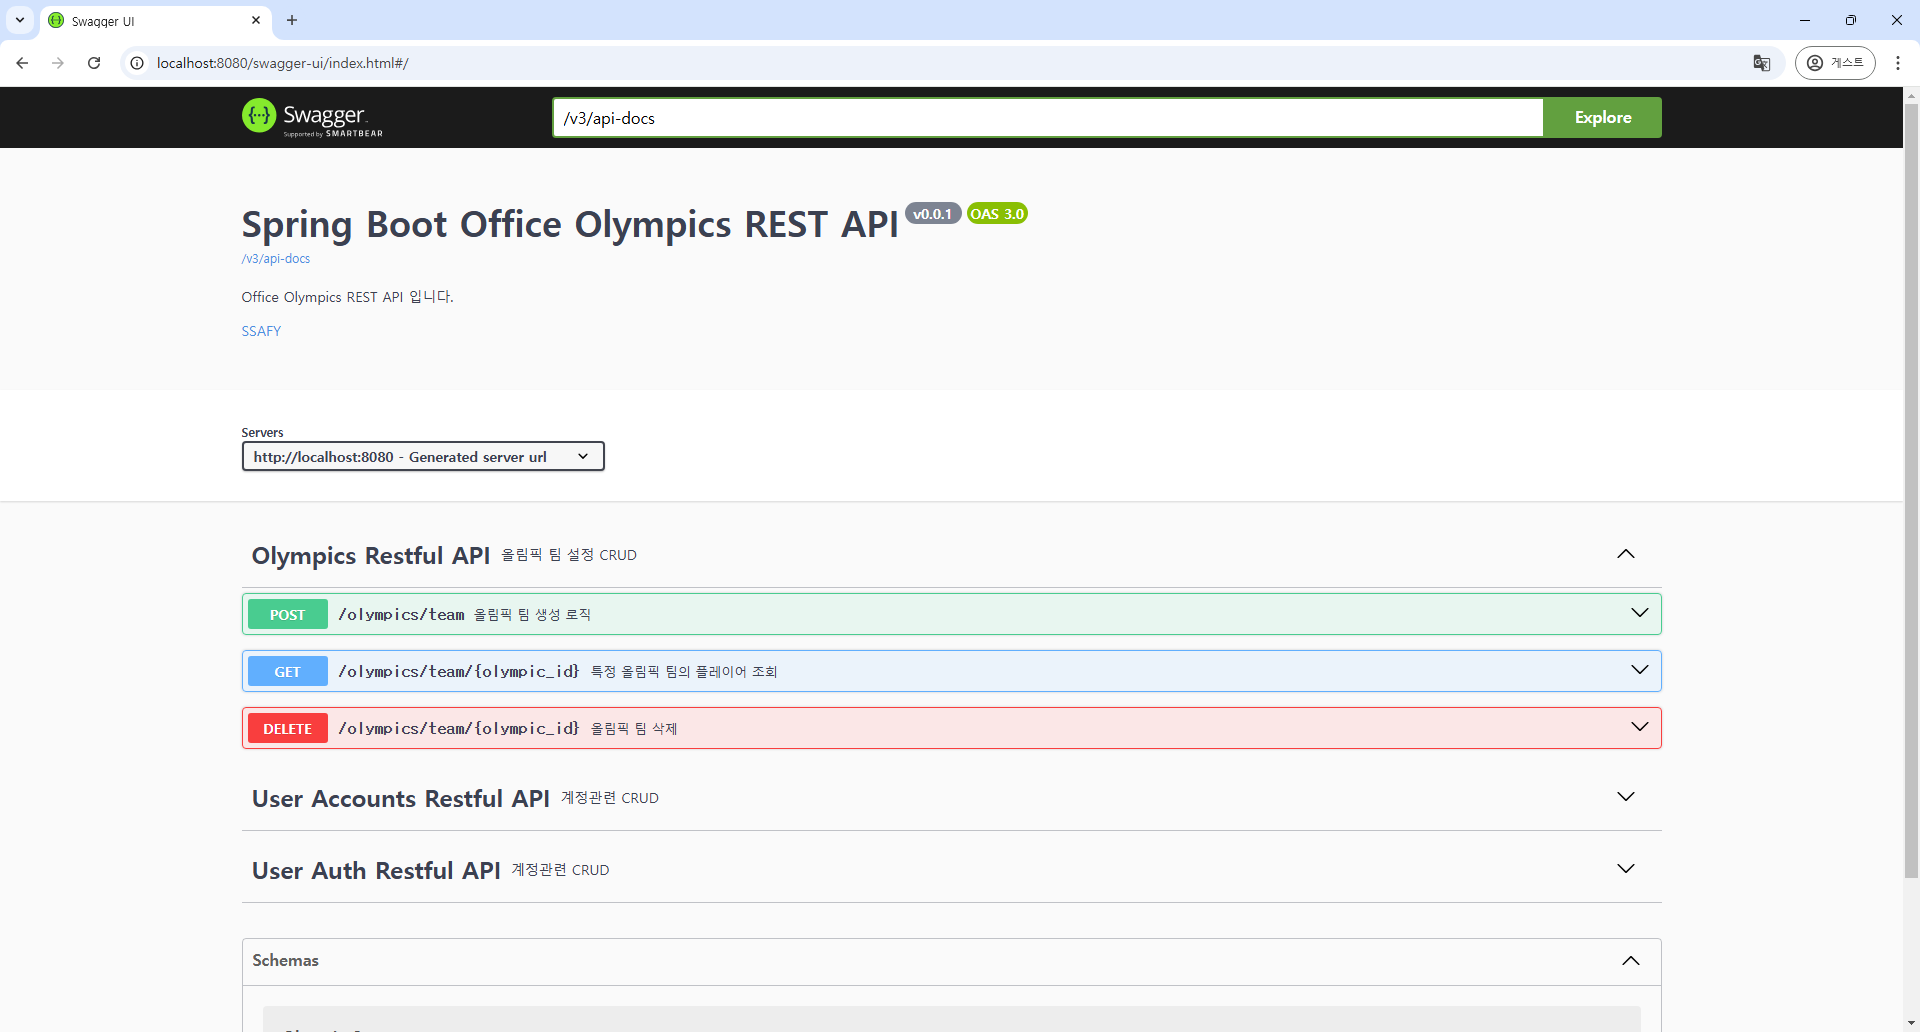
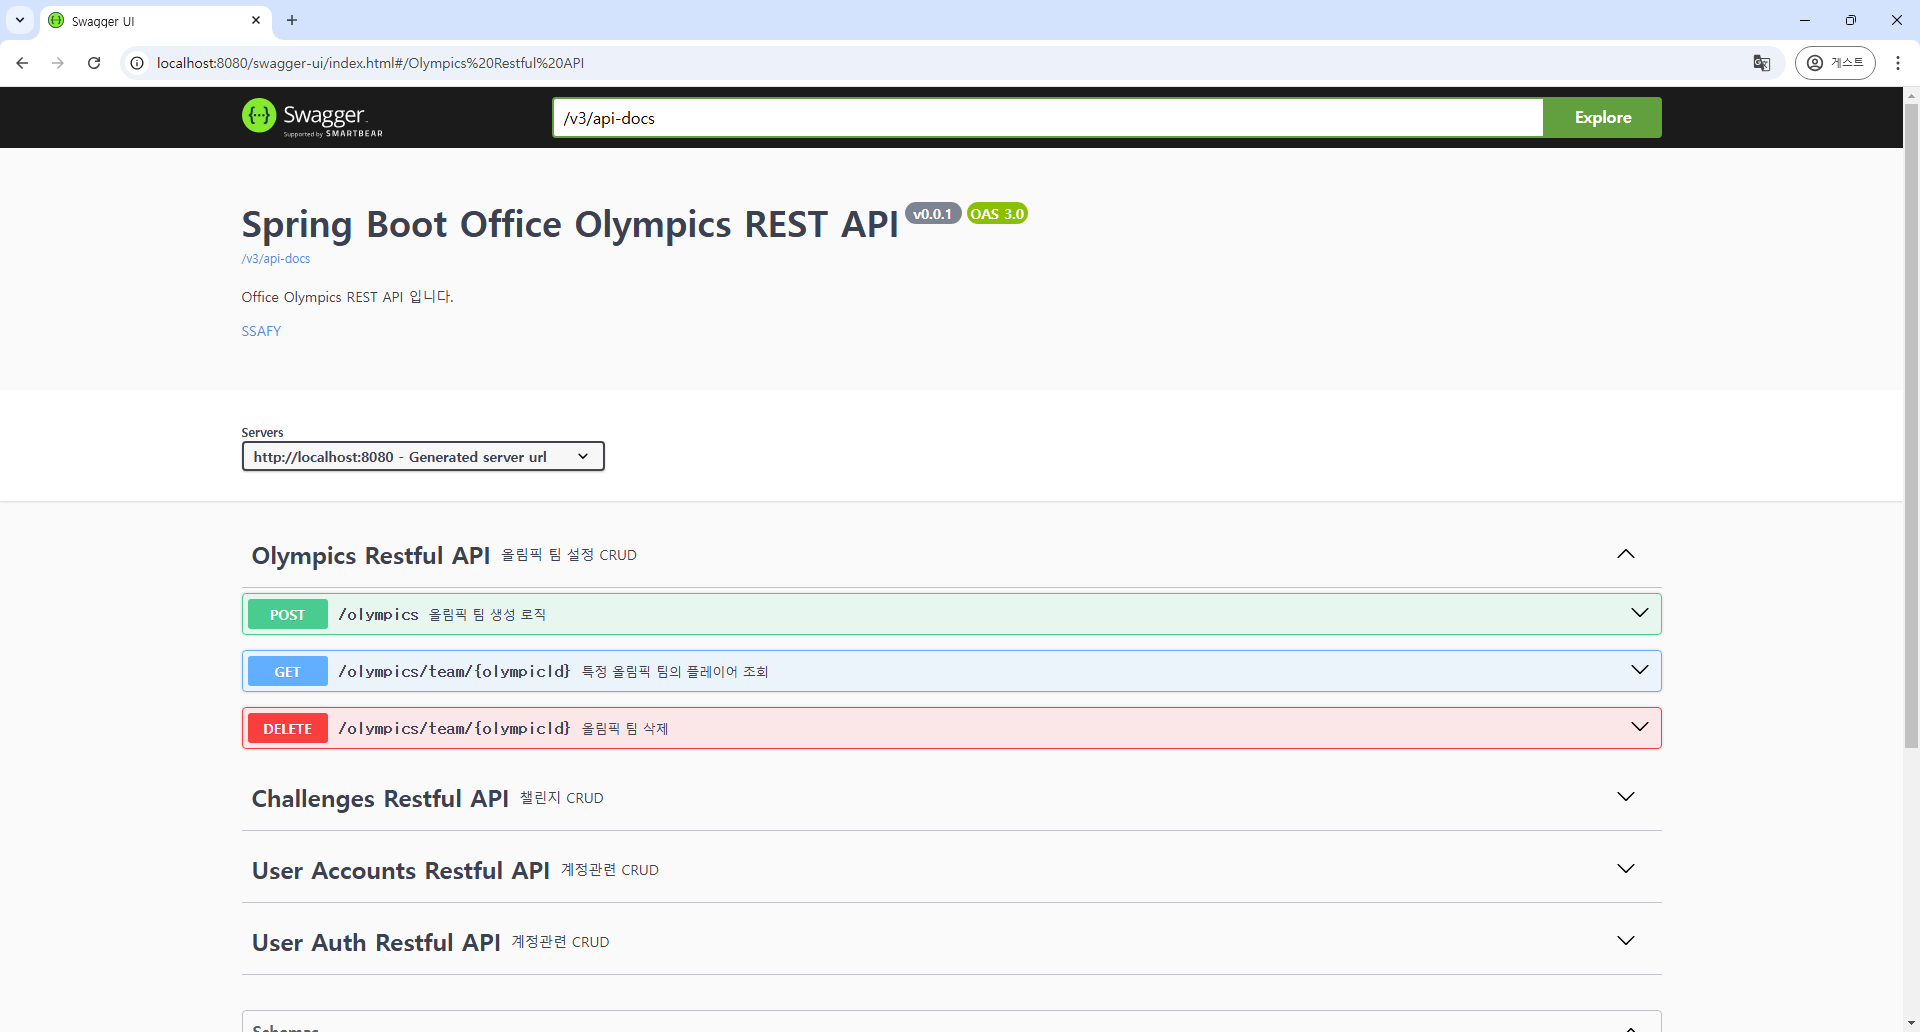
docs: 챌린지 기능 리뷰 문서 작성 및 이미지 갱신
챌린지 구현 완료된 기능에 대한 리뷰 문서 challenge.md를 작성했습니다.

- 올림픽 관련 이미지를 갱신하여 최신 상태로 업데이트 (be_olympics.png)

diff --git a/backend_summaries/Challenges.md b/backend_summaries/Challenges.md
@@ -1,0 +1,81 @@
+# Challenges 관련 로직 구현 리뷰
+
+## 목차
+- [주요 코드 구조 및 로직](#주요-코드-구조-및-로직)
+- [작업 내역](#작업-내역)
+- [각 파일의 내용](#각-파일의-내용)
+
+## 주요 코드 구조 및 로직
+
+### Swagger API 이미지
+
+![be_challenges.png](../media/backend/be_challenges.png)
+
+- **챌린지 관리**: `ChallengeController`와 `ChallengeScoreService`를 통해 챌린지의 생성, 조회, 기록 제출, 리더보드 조회 기능이 구현되어 있습니다.
+- **데이터베이스 연동**: `ChallengeScoreDao`와 `ChallengeScoreMapper.xml`을 이용해 MyBatis로 데이터베이스와 연동하여 챌린지와 관련된 데이터 조작을 수행합니다.
+
+## 작업 내역
+
+- `ChallengeController.java`
+- `ChallengeScoreDao.java`
+- `ChallengeScoreMapper.xml`
+- `Challenge.java`, `Score.java`, `Rank.java` (DTO)
+- `ChallengeScoreService.java`
+- `ChallengeScoreServiceImpl.java`
+
+## 각 파일의 내용
+
+- controller   
+    `ChallengeController`는 챌린지의 세부 정보 조회, 기록 제출, 리더보드 조회 등 주요 기능을 처리합니다.
+
+    - **챌린지 세부 정보 조회 (GET /challenges/{challengeId})**  
+        특정 `challengeId`를 가진 챌린지의 세부 정보를 반환합니다. 챌린지가 없을 경우 204 상태 코드를 반환합니다.
+
+    - **기록 제출 (POST /challenges/{challengeId}/record)**  
+        특정 챌린지에 점수를 제출하는 엔드포인트입니다. 플레이어 이름과 점수를 JSON 형식으로 전달하며, 성공 시 DB에 총 점수를 갱신합니다.
+
+    - **챌린지 리더보드 조회 (GET /challenges/{challengeId}/rank)**  
+        특정 챌린지의 현재 리더보드를 반환합니다. 상위 3명의 플레이어를 등수와 함께 조회할 수 있습니다.
+
+    - **최종 리더보드 조회 (GET /challenges/{challengeId}/final-rank)**  
+        올림픽이 종료되었을 때 해당 챌린지의 최종 리더보드를 조회하여 반환합니다.
+
+- service   
+    `ChallengeScoreServiceImpl` 파일에서는 챌린지 조회, 점수 기록, 점수 업데이트 및 리더보드 조회 로직이 구현되어 있습니다.
+
+    - **챌린지 조회 로직**  
+        - `selectChallenge` 메서드를 통해 `challengeId`를 기반으로 챌린지 정보를 조회합니다.
+
+    - **기록 제출 로직**  
+        - `insertScores` 메서드를 통해 플레이어 이름을 ID로 변환 후 점수를 데이터베이스에 기록합니다.
+
+    - **점수 갱신 로직**  
+        - `updateScore` 메서드를 통해 각 플레이어의 총 점수를 갱신합니다.
+
+    - **리더보드 조회 로직**  
+        - `selectChallengeScore`와 `selectFinalScore` 메서드를 통해 챌린지의 현재 및 최종 리더보드를 조회하여 반환합니다.
+
+- dao   
+    `ChallengeScoreDao`는 챌린지와 관련된 데이터베이스 연산을 정의하는 인터페이스입니다. 
+
+    - **주요 메서드**:
+        - `selectChallenge`: `challengeId`로 특정 챌린지를 조회
+        - `nameToId`: 플레이어 이름 리스트를 받아 해당 이름에 맞는 `playerId` 리스트를 반환
+        - `insertScore`: 챌린지 점수 데이터를 받아 다수의 레코드를 삽입
+        - `updateScore`: 각 플레이어의 `total_score`를 갱신
+        - `getPlayersByOlympicsId(int olympics_id)`: 특정 팀의 선수 목록 조회
+        - `selectChallengeScore`, `selectFinalScore`, `selectMainScore`: 챌린지 리더보드를 조회하여 순위를 반환
+
+- mapper   
+    `ChallengeScoreMapper.xml` 파일은 MyBatis SQL 매핑 파일로, 챌린지 데이터 조회, 점수 기록, 점수 업데이트, 리더보드 조회 쿼리들이 포함됩니다.
+
+    - **챌린지 조회 쿼리**: `selectChallenge`는 `challengeId`로 챌린지를 조회합니다.
+    - **이름->ID 변환 쿼리**: `nameToId`는 이름을 `playerId`로 변환해 리스트로 반환합니다.
+    - **기록 제출 쿼리**: `insertScore`는 챌린지 점수를 여러 개 삽입합니다.
+    - **점수 갱신 쿼리**: `updateScore`는 각 플레이어의 `total_score`를 갱신합니다.
+    - **리더보드 조회 쿼리**: `selectChallengeScore`, `selectFinalScore`, `selectMainScore`는 각 상황에 맞는 순위를 반환합니다.
+
+- dto   
+    - **Challenge.java**: `challengeId`, `challengeName`, `challengeDesc`, `challengeUrl`, `regDate`를 포함하는 챌린지 정보를 나타냅니다.
+    - **Score.java**: `scoreId`, `challengeId`, `playerNames`, `playerId`, `scores`, `regDate`를 포함하며, 챌린지 점수와 관련된 데이터를 나타냅니다.
+    - **Rank.java**: 순위 정보를 담고 있으며, `rank`, `playerName`, `score` 속성을 포함하여 리더보드 표시 시 사용됩니다.
